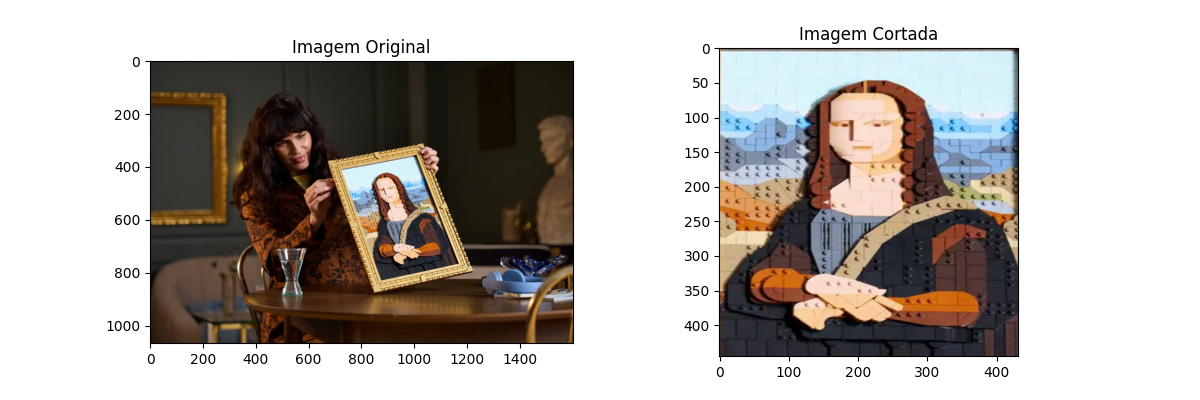
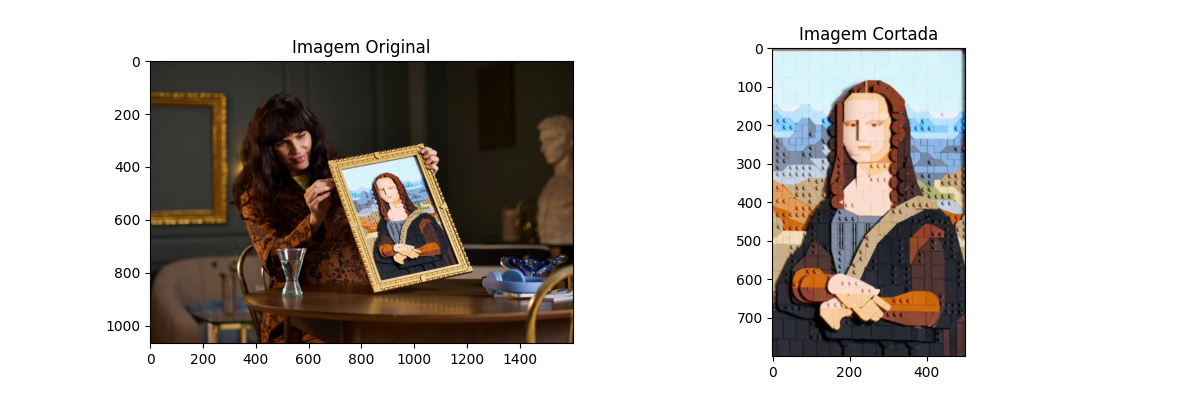
adicionar mais código

Changed region(s): [[0.555, 0.12, 0.8633, 0.9], [0.7092, 0.9, 0.74, 0.96], [0.6475, 0.9, 0.6783, 0.96]]

diff --git a/index.html b/index.html
@@ -72,6 +72,8 @@
         <a href="#Exercicio4">Exercício 4 - Blobs/Contornos e Excentricidade</a>
         <a href="#Exercicio5">Exercício 5 - Leitura de Arucos</a>
         <a href="#Exercicio6_1">Exercicio 6.1 - Correção de perspectiva "à mão"</a>
+        <a href="#Exercicio6_2">Exercicio 6.2 - Correção de perspectiva automática</a>
+        <a href="#Exercicio6_3">Exercicio 6.3 - Correção de perspectiva automática com aspect-ratio automático</a>
         
         <br>
         <br>
@@ -2077,8 +2079,8 @@ imagem_original = plt.imread('monaLisa.png')
 pontos_original = np.float32([[722, 409], [874, 828], [1154, 760], [1000, 357]])
 
 # Calcular a largura e altura com base nos pontos
-largura = int(np.linalg.norm(pontos_original[2] - pontos_original[3]))  # Distância entre ponto 3 e 4
-altura = int(np.linalg.norm(pontos_original[1] - pontos_original[0]))   # Distância entre ponto 2 e 1
+largura = 500
+altura = 800
 
 # Ajustar os pontos de destino mantendo as proporções
 pontos_destino = np.float32([[0, 0], [0, altura], [largura, altura], [largura, 0]])
@@ -2111,6 +2113,192 @@ plt.show()
             <section id="teoria">
                 Output:
                 <img src='./images/output_exe_6_1.png' style="width : 100%">
+            </section>
+        </section>
+
+        <section id="Exercicio6_2">
+            <h2>Exercício 6.2</h2>
+            <section id="teoria">
+                <article>
+                    O código carrega uma imagem, converte-a para o espaço de cores HSV e cria uma máscara binária, onde áreas específicas de cor são destacadas com base em critérios definidos para matiz, saturação e valor. Em seguida, aplica operações morfológicas (delação e erosão) para melhorar a qualidade da máscara, removendo ruídos e ajustando as áreas de interesse. Com a máscara refinada, o código encontra os contornos da região relevante na imagem, selecionando o contorno de maior área. Esse contorno é então aproximado para uma forma mais simples, como um quadrado ou retângulo, utilizando a técnica de aproximação poligonal. Após isso, é calculado o retângulo delimitador ao redor da forma e ajustada a posição dos cantos para corresponder aos pontos corretos da imagem original. Finalmente, uma transformação de perspectiva é aplicada à imagem para "endireitar" a região de interesse, gerando uma versão retangular da área selecionada, que é visualizada lado a lado com a imagem original.    
+                </article>
+            </section>
+            
+            
+            <div class="code-container">
+                <!-- Alterado para textarea -->
+                <textarea id="Exe1" class="codeBox">
+import cv2
+import numpy as np
+import matplotlib.pyplot as plt
+
+
+def distance(point1, point2):
+    return np.sqrt((point1[0] - point2[0]) ** 2 + (point1[1] - point2[1]) ** 2)
+
+
+img = (plt.imread("monalisa.png") * 255).astype(np.uint8)
+img_hsv = cv2.cvtColor(img, cv2.COLOR_RGB2HSV)
+img_bin = (
+    (img_hsv[:, :, 0] > 16)
+    & (img_hsv[:, :, 0] < 23)
+    & (img_hsv[:, :, 1] > 87)
+    & (img_hsv[:, :, 1] < 141)
+    & (img_hsv[:, :, 2] > 220)
+    & (img_hsv[:, :, 2] < 255)
+)
+
+kernel3 = np.ones((3, 3))
+img_bin = cv2.dilate((img_bin * 255).astype(np.uint8), kernel=kernel3, iterations=3)
+img_bin = cv2.erode(img_bin, kernel=kernel3, iterations=5)
+img_bin = cv2.dilate(img_bin, kernel=kernel3, iterations=5)
+
+
+contours, _ = cv2.findContours(img_bin, cv2.RETR_TREE, cv2.CHAIN_APPROX_SIMPLE)
+contour = sorted(contours, key=cv2.contourArea, reverse=True)[1]
+epsilon = 0.05 * cv2.arcLength(contour, True)
+approx = cv2.approxPolyDP(contour, epsilon, True)
+
+approx = approx.reshape((4, 2))
+
+x, y, w, h = cv2.boundingRect(approx)
+bounding = [(x, y), (x + w, y), (x, y+h), (x + w, y + h)]
+src_points = []
+src_points_dst = [float("inf")]*4
+
+for i, b in enumerate(bounding):
+    for canto in approx:
+        if (dst:=distance(b, canto)) < src_points_dst[i]:
+            if len(src_points) != i:
+                src_points[-1] = canto
+            else:
+                src_points.append(canto)
+            src_points_dst[i] = dst
+
+src_points = np.array(src_points, dtype="float32")
+dst_points = np.array([[0, 0], [500, 0], [0, 800], [500, 800]], dtype="float32")
+matriz_formacao = cv2.getPerspectiveTransform(src_points, dst_points)
+transformed_img = cv2.warpPerspective(img, matriz_formacao, (500,800))
+
+
+plt.figure(figsize=(12, 4))
+plt.subplot(1, 2, 1)
+plt.title("Imagem Original")
+plt.imshow(img)
+plt.subplot(1, 2, 2)
+plt.imshow(transformed_img)
+plt.title("Imagem Cortada")
+plt.show()
+
+                </textarea>
+                <button class="copyButton">
+                    <svg xmlns="http://www.w3.org/2000/svg" height="16" width="16" viewBox="0 0 24 24" fill="none" stroke="currentColor" stroke-width="2" stroke-linecap="round" stroke-linejoin="round" class="icon">
+                        <rect x="9" y="9" width="13" height="13" rx="2" ry="2"></rect>
+                        <path d="M5 15H4a2 2 0 0 1-2-2V4a2 2 0 0 1 2-2h9a2 2 0 0 1 2 2v1"></path>
+                    </svg>
+                    <span>Copiar Código</span>
+                </button>                
+            </div>
+            <section id="teoria">
+                Output:
+                <img src='./images/output_exe_6_2.png' style="width : 100%">
+            </section>
+        </section>
+
+        <section id="Exercicio6_3">
+            <h2>Exercício 6.3</h2>
+            <section id="teoria">
+                <article>
+                    O código começa por carregar uma imagem e convertê-la para o espaço de cores HSV para facilitar a segmentação de cores. Depois, ele cria uma máscara binária, onde áreas específicas da imagem que correspondem a certos critérios de cor são destacadas. Essa máscara passa por algumas operações de dilatação e erosão para melhorar a definição das regiões de interesse e eliminar ruídos. Em seguida, o código detecta os contornos na imagem e seleciona o maior contorno, que é então aproximado para um polígono com quatro lados. A partir dessa aproximação, o código calcula os limites da região e ajusta os pontos de destino para uma transformação de perspectiva. Essa transformação é aplicada à imagem original para "endireitar" a área de interesse, gerando uma versão retangular dessa região. Por fim, o código exibe a imagem original e a imagem transformada lado a lado.
+                </article>
+            </section>
+            
+            
+            <div class="code-container">
+                <!-- Alterado para textarea -->
+                <textarea id="Exe1" class="codeBox">
+import cv2
+import numpy as np
+import matplotlib.pyplot as plt
+
+
+def distance(point1, point2):
+    return np.sqrt((point1[0] - point2[0]) ** 2 + (point1[1] - point2[1]) ** 2)
+
+
+img = (plt.imread("monalisa.png") * 255).astype(np.uint8)
+img_hsv = cv2.cvtColor(img, cv2.COLOR_RGB2HSV)
+img_bin = (
+    (img_hsv[:, :, 0] > 16)
+    & (img_hsv[:, :, 0] < 23)
+    & (img_hsv[:, :, 1] > 87)
+    & (img_hsv[:, :, 1] < 141)
+    & (img_hsv[:, :, 2] > 220)
+    & (img_hsv[:, :, 2] < 255)
+)
+
+kernel3 = np.ones((3, 3))
+img_bin = cv2.dilate((img_bin * 255).astype(np.uint8), kernel=kernel3, iterations=3)
+img_bin = cv2.erode(img_bin, kernel=kernel3, iterations=5)
+img_bin = cv2.dilate(img_bin, kernel=kernel3, iterations=5)
+
+
+contours, _ = cv2.findContours(img_bin, cv2.RETR_TREE, cv2.CHAIN_APPROX_SIMPLE)
+contour = sorted(contours, key=cv2.contourArea, reverse=True)[1]
+epsilon = 0.05 * cv2.arcLength(contour, True)
+approx = cv2.approxPolyDP(contour, epsilon, True)
+
+approx = approx.reshape((4, 2))
+
+x, y, w, h = cv2.boundingRect(approx)
+bounding = [(x, y), (x + w, y), (x, y+h), (x + w, y + h)]
+src_points = []
+src_points_dst = [float("inf")]*4
+
+for i, b in enumerate(bounding):
+    for canto in approx:
+        if (dst:=distance(b, canto)) < src_points_dst[i]:
+            if len(src_points) != i:
+                src_points[-1] = canto
+            else:
+                src_points.append(canto)
+            src_points_dst[i] = dst
+
+src_points = np.array(src_points, dtype="float32")
+
+# Calcular a largura e altura com base nos pontos
+largura = int(np.linalg.norm(src_points[2] - src_points[3]))  # Distância entre ponto 3 e 4
+altura = int(np.linalg.norm(src_points[1] - src_points[0]))   # Distância entre ponto 2 e 1
+
+# Ajustar os pontos de destino mantendo as proporções
+pontos_destino = np.float32([[0, 0],[largura, 0],[0, altura] , [largura, altura]])
+
+matriz_formacao = cv2.getPerspectiveTransform(src_points, pontos_destino)
+transformed_img = cv2.warpPerspective(img, matriz_formacao, (largura,altura))
+
+
+plt.figure(figsize=(12, 4))
+plt.subplot(1, 2, 1)
+plt.title("Imagem Original")
+plt.imshow(img)
+plt.subplot(1, 2, 2)
+plt.imshow(transformed_img)
+plt.title("Imagem Cortada")
+plt.show()
+
+
+                </textarea>
+                <button class="copyButton">
+                    <svg xmlns="http://www.w3.org/2000/svg" height="16" width="16" viewBox="0 0 24 24" fill="none" stroke="currentColor" stroke-width="2" stroke-linecap="round" stroke-linejoin="round" class="icon">
+                        <rect x="9" y="9" width="13" height="13" rx="2" ry="2"></rect>
+                        <path d="M5 15H4a2 2 0 0 1-2-2V4a2 2 0 0 1 2-2h9a2 2 0 0 1 2 2v1"></path>
+                    </svg>
+                    <span>Copiar Código</span>
+                </button>                
+            </div>
+            <section id="teoria">
+                Output:
+                <img src='./images/output_exe_6_3.png' style="width : 100%">
             </section>
         </section>
 
